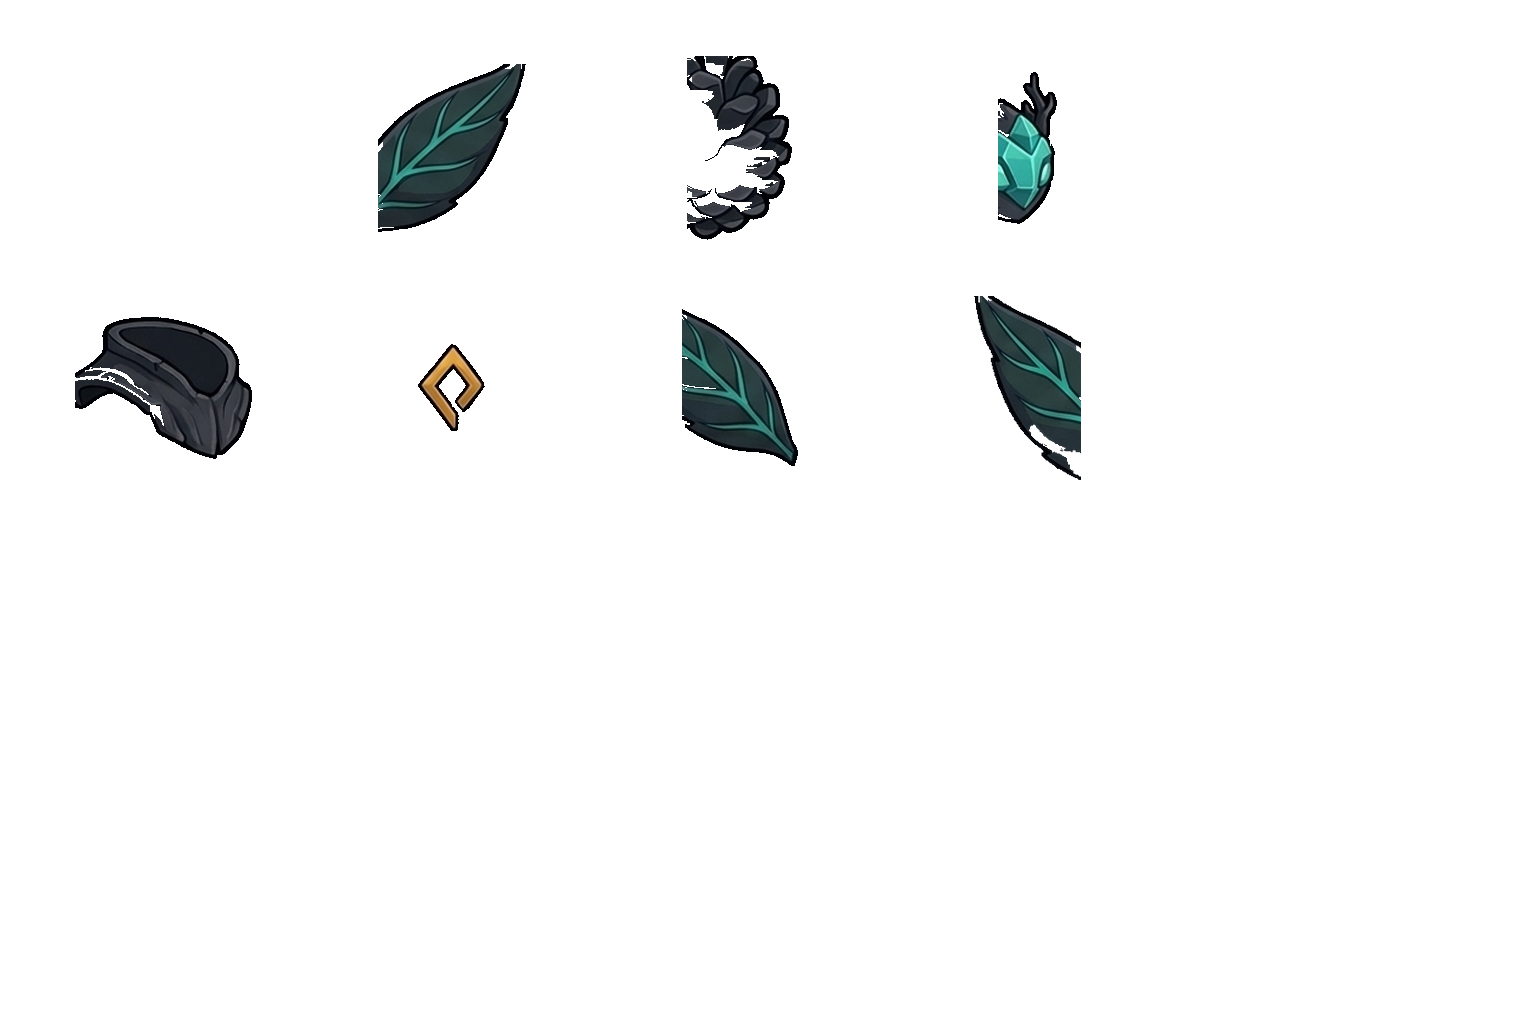
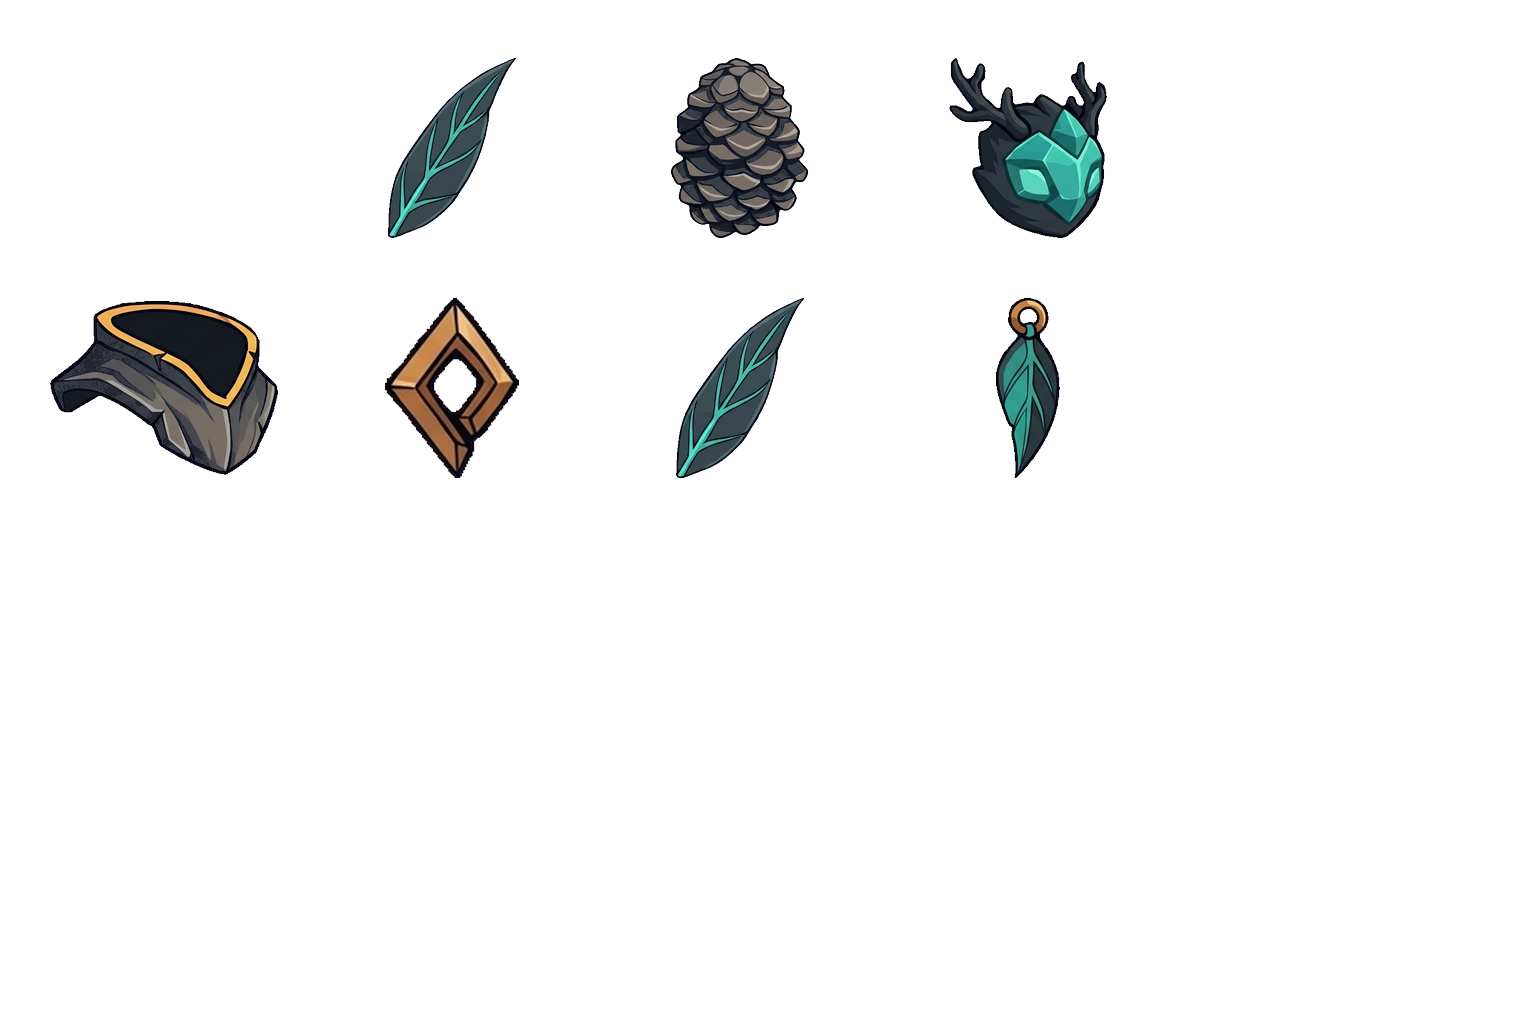
R6 G4 2차 비평 권장 숲 엘프(elf) 2개체 재작화·보강(armored-t3 방패 추가·special-t1)

diff --git a/asset-source/r6/monsters/elf/STATUS.md b/asset-source/r6/monsters/elf/STATUS.md
@@ -36,4 +36,6 @@
 
 - `special/T3` (비평 10항 필수): 번잡한 가는 선 뭉치를 제거하고 R04 2중 기하학 바람 고리(`armor`)·다면체 틸 숲핵(`body`)·결정 관(`head`)·잎날개 2쌍으로 재작화 (`cut_parts` `issues=0` · 5/5 슬롯, T1 관절 기준 모의 `fit_parts` IoU `0.760`, 지형/길 대비 `2.341/1.570`, 흰색·마젠타 잔여 `0/0`).
 - `special/T4` (비평 10항 선택): 흰 점 눈 가면·엉킨 선을 제거하고 3겹 고목 왕관 틀(`armor`)·대형 다면체 숲핵(`body`)·결정 관(`head`)·잎날개 2쌍으로 재작화 (`cut_parts` `issues=0` · 5/5 슬롯, T1 관절 기준 모의 `fit_parts` IoU `0.772`, 지형/길 대비 `2.092/1.509`, 흰색·마젠타 잔여 `0/0`).
+- `armored/T3` (2차 비평 2순위): 대형 앰버 테두리·틸 결정 고목 뿌리 방패(`gear`) 추가(12/12 슬롯) 및 상체·투구 명부 보강 (`cut_parts` `issues=0`, 모의 `fit_parts` IoU `0.916`, 32px 지형 대비 `1.732`, 흰색·마젠타 잔여 `0/0`).
+- `special/T1` (2차 비평 선택): 기존 흰 줄 잔여 완전 제거 및 솔방울·잎날개·앰버 칼라 명부 보강 (`cut_parts` `issues=0` · 7/7 슬롯, 모의 `fit_parts` IoU `0.796`, 32px 지형 대비 `1.596`, 흰색·마젠타 잔여 `0/0`).
 - `docs/renewal/r6/bible/sheets/monsters-elf-parts-all.webp` 갱신 완료.
